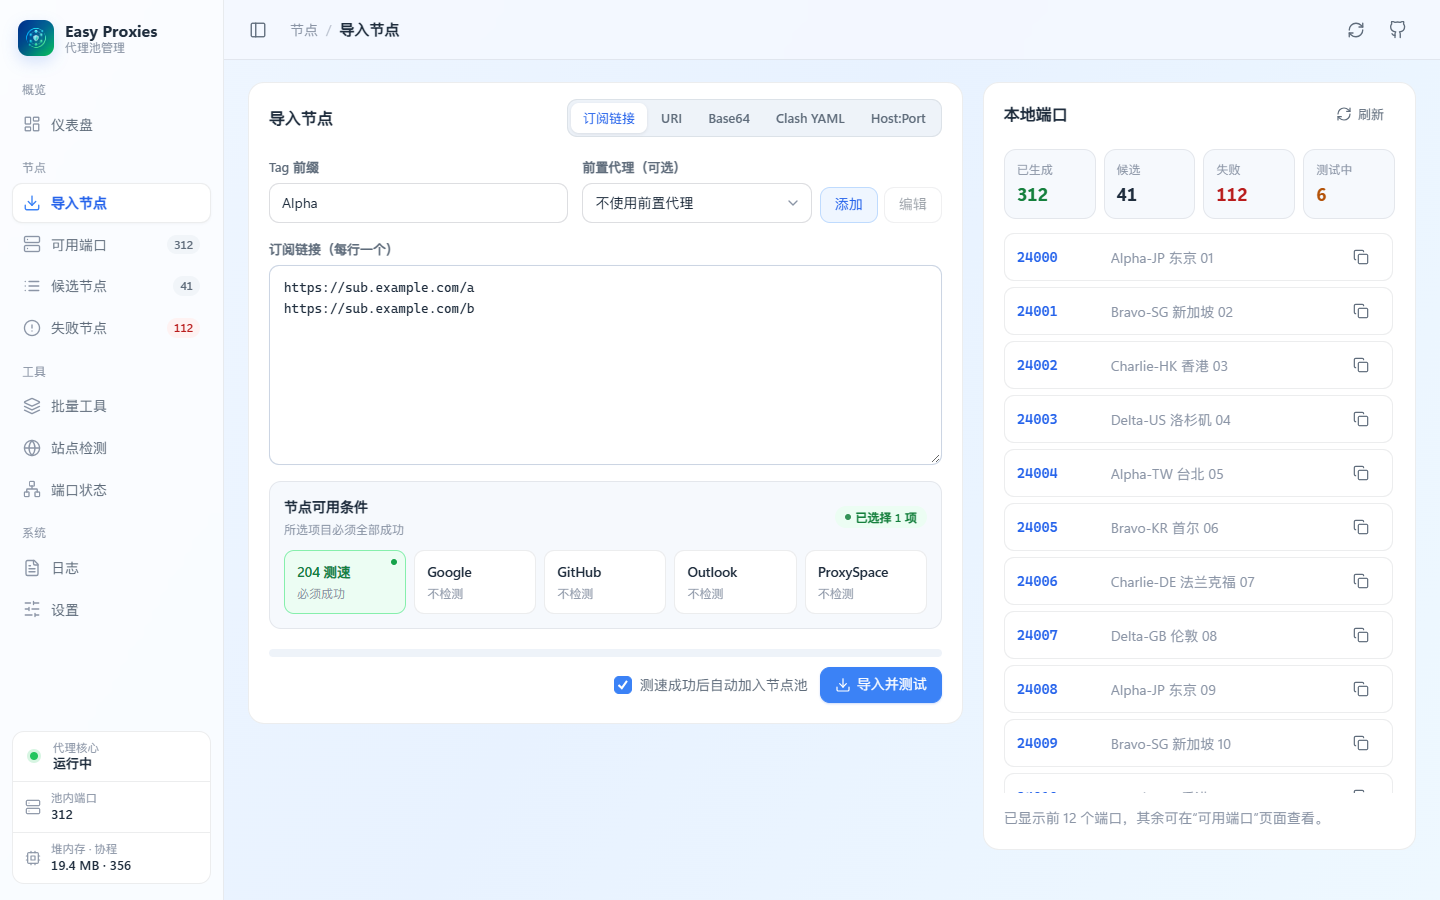
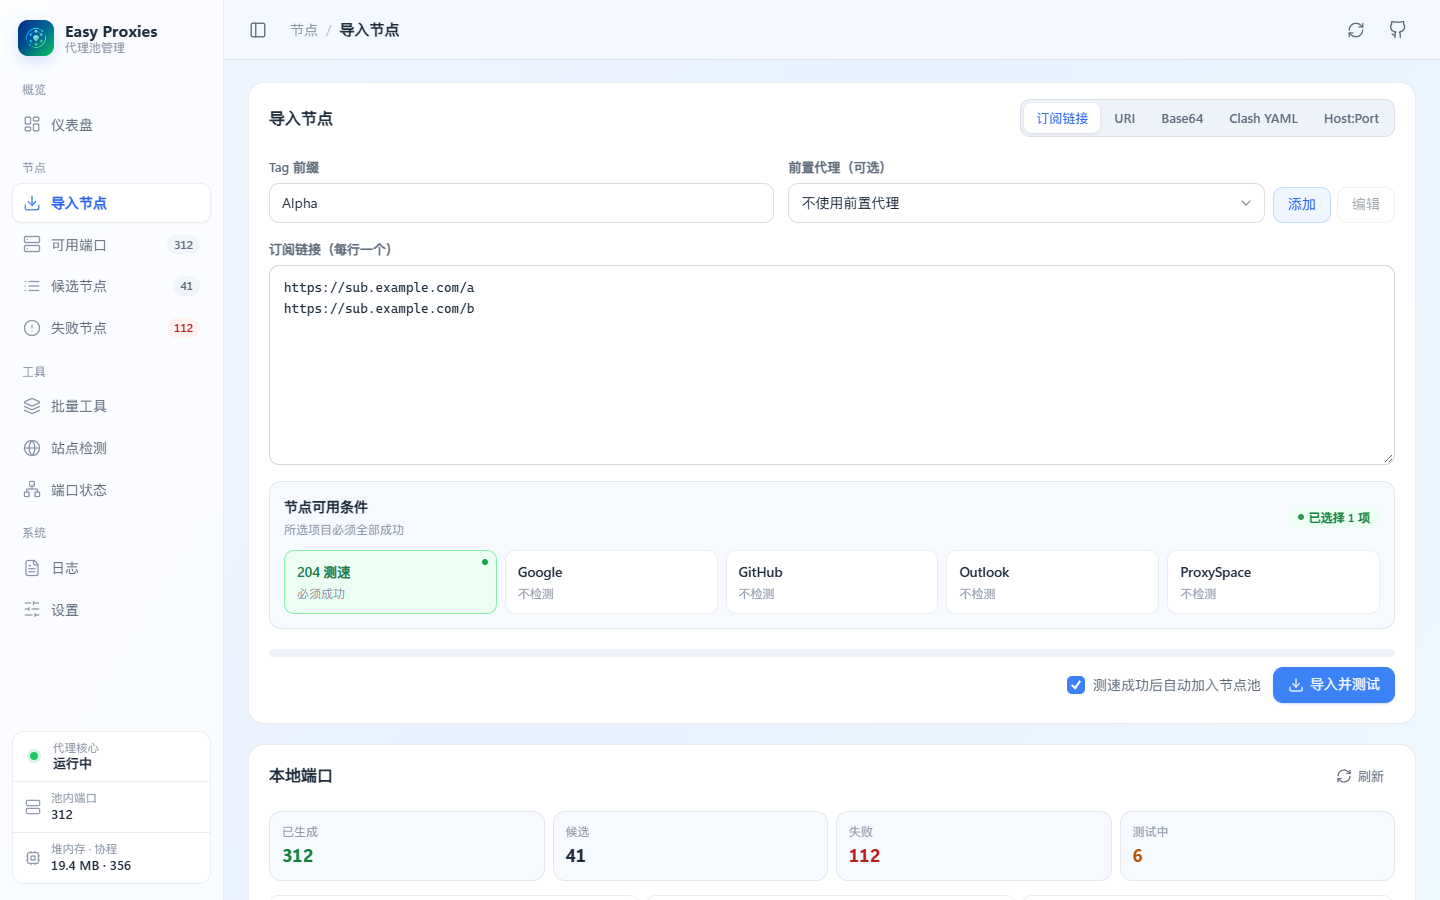
fix: skip unbuildable nodes when applying site check ports
Applying site check results now validates newly selected nodes first.
Nodes that cannot produce a runtime configuration are moved to the
failed list with the reason instead of making the reload fail and
rolling back the whole apply. The import page now stacks the form
above the local port list.

diff --git a/internal/monitor/assets/css/pages.css b/internal/monitor/assets/css/pages.css
@@ -99,7 +99,7 @@ button.kpi:hover{border-color:var(--blue-line);transform:translateY(-2px);box-sh
 .pool-toolbar,.list-tools,.action-line{display:flex;align-items:center;justify-content:space-between;gap:12px;flex-wrap:wrap}
 
 /* Import */
-.import-layout{display:grid;grid-template-columns:minmax(0,1.65fr) minmax(320px,1fr);gap:var(--gap);align-items:start}
+.import-layout{display:grid;gap:var(--gap);align-items:start}
 .import-form{display:grid;gap:16px}
 .import-meta{display:grid;grid-template-columns:minmax(0,1fr) minmax(0,1.2fr);gap:14px;align-items:end}
 .chain-import-row{display:grid;grid-template-columns:minmax(0,1fr) auto;gap:8px;align-items:end}
@@ -116,7 +116,7 @@ button.kpi:hover{border-color:var(--blue-line);transform:translateY(-2px);box-sh
 .mini-stat span{font-size:12px;color:var(--muted)}
 .mini-stat strong{font-size:18px;font-weight:650;font-variant-numeric:tabular-nums}
 .mini-stat.green strong{color:var(--green-deep)}.mini-stat.red strong{color:var(--red-deep)}.mini-stat.amber strong{color:var(--amber-deep)}
-.port-list{max-height:min(560px,calc(100vh - 330px));overflow:auto;display:grid;gap:6px;padding-right:2px}
+.port-list{max-height:420px;overflow:auto;display:grid;grid-template-columns:repeat(auto-fill,minmax(360px,1fr));gap:6px;padding-right:2px}
 .import-format-card{display:flex;align-items:center;justify-content:space-between;gap:14px;padding:14px;border:1px solid var(--line);border-radius:var(--radius);background:var(--surface-subtle)}
 
 /* Verification policy & site selectors */
@@ -250,7 +250,6 @@ pre.log-view{height:100%;max-height:none;background:#0f172a;color:#cbd5e1;border
 @media(max-width:1280px){
   .kpi-grid{grid-template-columns:repeat(3,minmax(0,1fr))}
   .dash-grid,.dash-grid.two{grid-template-columns:1fr 1fr}
-  .import-layout{grid-template-columns:1fr}
   .verification-targets{grid-template-columns:repeat(3,minmax(0,1fr))}
 }
 @media(max-width:980px){

diff --git a/internal/monitor/assets/js/pages/connectivity.js b/internal/monitor/assets/js/pages/connectivity.js
@@ -285,7 +285,7 @@ async function applyConnectivityPorts(allowEmpty){
   try{
     const request={...(S.connectivityPreviewRequest||connectivityPortRequest()),allow_empty:!!allowEmpty};
     const result=await api('/api/connectivity/ports/apply',{method:'POST',body:JSON.stringify(request)});
-    closeDialog();toast(`端口已更新，当前池内 ${result.pool_count||0} 个节点`);
+    closeDialog();toast(result.build_failed?`端口已更新，当前池内 ${result.pool_count||0} 个节点；${result.build_failed} 个节点无法生成运行配置，已移入失败节点`:`端口已更新，当前池内 ${result.pool_count||0} 个节点`,result.build_failed?'err':'ok');
     S.connectivityPreview=null;S.connectivityPreviewRequest=null;
     await loadImportSummary();renderNav();refreshConnectivityPreviewSummary();
   }catch(err){toast(err.message,'err');if(button){button.disabled=false;button.textContent=oldText}}

diff --git a/internal/importer/connectivity_test.go b/internal/importer/connectivity_test.go
@@ -708,3 +708,80 @@ func waitConnectivityJobTerminal(t *testing.T, svc *Service, jobID string) Conne
 }
 
 var errConnectivityFixture = errors.New("connectivity fixture failure")
+
+func TestConnectivityPortApplySkipsNodesThatCannotBuild(t *testing.T) {
+	mgr := &batchNodeManagerStub{nextPort: 25000, validationErrs: map[string]error{"bad": errors.New("unsupported transport")}}
+	svc, store := newBatchServiceForTest(t, mgr)
+	nodes := []ManagedNode{
+		{ID: "good", Name: "good", URI: "trojan://good", TagPrefix: "A", State: StatePassed},
+		{ID: "bad", Name: "bad", URI: "trojan://bad", TagPrefix: "A", State: StatePassed},
+	}
+	if err := store.UpsertNodes(nodes); err != nil {
+		t.Fatal(err)
+	}
+	state := &connectivityJobState{
+		job:    ConnectivityJob{ID: "job", Status: ConnectivityJobFinished, Tags: []string{"A"}, Targets: []string{"google"}},
+		routes: map[string]connectivityRoute{}, results: map[string]ConnectivityResult{},
+	}
+	for _, node := range nodes {
+		fingerprint := connectivityRouteFingerprint(node)
+		state.routes[fingerprint] = connectivityRoute{node: node, tags: []string{"A"}, fingerprint: fingerprint}
+		state.results[connectivityResultKey(node.ID, "google")] = ConnectivityResult{NodeID: node.ID, NodeName: node.Name, Tags: []string{"A"}, RouteFingerprint: fingerprint, TargetID: "google", FirstSuccess: true, Success: true, Attempts: 1}
+	}
+	svc.connectivityJobs["job"] = state
+	req := ConnectivityPortRequest{JobID: "job", Tags: []string{"A"}, Targets: []string{"google"}}
+	preview, err := svc.PreviewConnectivityPool(req)
+	if err != nil {
+		t.Fatal(err)
+	}
+	req.PreviewToken = preview.PreviewToken
+	applied, err := svc.ApplyConnectivityPool(context.Background(), req)
+	if err != nil {
+		t.Fatalf("ApplyConnectivityPool() error = %v", err)
+	}
+	for _, batch := range mgr.createdBatches {
+		for _, created := range batch {
+			if created.Name == "bad" {
+				t.Fatal("node that cannot build was sent to the runtime")
+			}
+		}
+	}
+	good, _ := store.GetNode("good")
+	bad, _ := store.GetNode("bad")
+	if !good.InPool || good.Port == 0 {
+		t.Fatalf("good = %#v", good)
+	}
+	if bad.InPool || bad.State != StateFailed || bad.Port != 0 || !strings.Contains(bad.LastError, "unsupported transport") {
+		t.Fatalf("bad = %#v", bad)
+	}
+	if applied.PoolCount != 1 || applied.BuildFailed != 1 {
+		t.Fatalf("applied = %#v", applied)
+	}
+}
+
+func TestConnectivityPortApplyRejectsWhenNoNodeCanBuild(t *testing.T) {
+	mgr := &batchNodeManagerStub{validationErrs: map[string]error{"bad": errors.New("unsupported transport")}}
+	svc, store := newBatchServiceForTest(t, mgr)
+	node := ManagedNode{ID: "bad", Name: "bad", URI: "trojan://bad", TagPrefix: "A", State: StatePassed}
+	if err := store.UpsertNode(node); err != nil {
+		t.Fatal(err)
+	}
+	fingerprint := connectivityRouteFingerprint(node)
+	svc.connectivityJobs["job"] = &connectivityJobState{
+		job:     ConnectivityJob{ID: "job", Status: ConnectivityJobFinished, Tags: []string{"A"}, Targets: []string{"google"}},
+		routes:  map[string]connectivityRoute{fingerprint: {node: node, tags: []string{"A"}, fingerprint: fingerprint}},
+		results: map[string]ConnectivityResult{connectivityResultKey(node.ID, "google"): {NodeID: node.ID, Tags: []string{"A"}, RouteFingerprint: fingerprint, TargetID: "google", FirstSuccess: true, Success: true, Attempts: 1}},
+	}
+	req := ConnectivityPortRequest{JobID: "job", Tags: []string{"A"}, Targets: []string{"google"}}
+	preview, err := svc.PreviewConnectivityPool(req)
+	if err != nil {
+		t.Fatal(err)
+	}
+	req.PreviewToken = preview.PreviewToken
+	if _, err := svc.ApplyConnectivityPool(context.Background(), req); err == nil || !strings.Contains(err.Error(), "运行配置") {
+		t.Fatalf("ApplyConnectivityPool() error = %v, want build failure rejection", err)
+	}
+	if len(mgr.createdBatches) != 0 {
+		t.Fatalf("created batches = %#v", mgr.createdBatches)
+	}
+}

diff --git a/internal/importer/connectivity.go b/internal/importer/connectivity.go
@@ -1406,6 +1406,25 @@ func (s *Service) ApplyConnectivityPool(ctx context.Context, req ConnectivityPor
 		}
 		return cause
 	}
+	desiredIDs := make(map[string]struct{}, len(selection.desiredIDs))
+	for id := range selection.desiredIDs {
+		desiredIDs[id] = struct{}{}
+	}
+	buildFailures := make(map[string]string)
+	if validator, ok := s.nodeMgr.(NodeRuntimeValidator); ok {
+		for _, node := range nodesBefore {
+			if _, desired := desiredIDs[node.ID]; !desired || node.InPool || node.State == StateInPool {
+				continue
+			}
+			if err := validator.ValidateNode(applyCtx, node.ToConfigNode()); err != nil {
+				buildFailures[node.ID] = "运行配置构建失败: " + err.Error()
+				delete(desiredIDs, node.ID)
+			}
+		}
+	}
+	if len(desiredIDs) == 0 && len(buildFailures) > 0 && !req.AllowEmpty {
+		return ConnectivityPortApplyResponse{}, fmt.Errorf("%d 个达标节点都无法生成运行配置，未修改端口", len(buildFailures))
+	}
 	configByRoute := make(map[string]config.NodeConfig, len(configBefore))
 	for _, node := range configBefore {
 		fingerprint := connectivityRouteFingerprint(ManagedNode{URI: node.URI, ChainProfileID: node.ChainProfileID})
@@ -1414,7 +1433,7 @@ func (s *Service) ApplyConnectivityPool(ctx context.Context, req ConnectivityPor
 	removeNames := make([]string, 0)
 	addNodes := make([]config.NodeConfig, 0)
 	for _, node := range nodesBefore {
-		_, desired := selection.desiredIDs[node.ID]
+		_, desired := desiredIDs[node.ID]
 		inPool := node.InPool || node.State == StateInPool
 		fingerprint := connectivityRouteFingerprint(node)
 		if inPool && !desired {
@@ -1459,7 +1478,7 @@ func (s *Service) ApplyConnectivityPool(ctx context.Context, req ConnectivityPor
 	updates := make([]ManagedNode, 0, len(nodesBefore))
 	order := 0
 	for _, node := range nodesBefore {
-		_, desired := selection.desiredIDs[node.ID]
+		_, desired := desiredIDs[node.ID]
 		if desired {
 			configuredNode, found := configuredByRoute[connectivityRouteFingerprint(node)]
 			if !found || configuredNode.Port == 0 {
@@ -1474,6 +1493,11 @@ func (s *Service) ApplyConnectivityPool(ctx context.Context, req ConnectivityPor
 			node.ConsecutiveFailures = 0
 			node.LastError = ""
 			order++
+		} else if failureReason, failed := buildFailures[node.ID]; failed {
+			node.State = StateFailed
+			node.InPool = false
+			node.Port = 0
+			node.LastError = failureReason
 		} else if failureReason, failed := selection.failedIDs[node.ID]; failed {
 			node.State = StateFailed
 			node.InPool = false
@@ -1488,5 +1512,5 @@ func (s *Service) ApplyConnectivityPool(ctx context.Context, req ConnectivityPor
 	if err := s.verifyAppliedRuntime(applyCtx); err != nil {
 		return ConnectivityPortApplyResponse{}, rollback(err)
 	}
-	return ConnectivityPortApplyResponse{ConnectivityPortPreview: selection.preview, PoolCount: len(selection.desiredIDs)}, nil
+	return ConnectivityPortApplyResponse{ConnectivityPortPreview: selection.preview, PoolCount: len(desiredIDs), BuildFailed: len(buildFailures)}, nil
 }

diff --git a/internal/importer/types.go b/internal/importer/types.go
@@ -383,7 +383,8 @@ type ConnectivityPortPreview struct {
 
 type ConnectivityPortApplyResponse struct {
 	ConnectivityPortPreview
-	PoolCount int `json:"pool_count"`
+	PoolCount   int `json:"pool_count"`
+	BuildFailed int `json:"build_failed"`
 }
 
 type ConnectivityHistoryCounts struct {

diff --git a/release-notes/v2.5.0.md b/release-notes/v2.5.0.md
@@ -4,6 +4,7 @@
 - Added a dashboard as the default page, showing pool, candidate, failed, and testing counts, node composition, subscription refresh status, runtime diagnostics, import sources, and live job progress.
 - Node tables now use a single toolbar with segmented sorting, a port reorder menu, and an auto-probe menu. Bulk actions appear only when nodes are selected, and the selected count updates immediately.
 - Import formats are switched inline without a dialog, and the pasted content is kept when switching formats.
+- The import page now stacks the import form above the local port list, which uses the full page width.
 - Split the embedded WebUI into separate HTML, CSS, and JavaScript files served from `/assets/` with revalidation, so upgrades take effect without a stale browser cache.
 - Only one process can use a given config file. A new process waits up to 40 seconds for the previous instance to exit, preventing duplicate instances from shifting ports or writing shared data.
 - The program now exits with a clear error when the management port is already in use instead of running without a WebUI.
@@ -11,6 +12,7 @@
 - Multi-port mode no longer resolves GeoIP for every node or starts an unused GeoIP router, reducing startup and full reload time from several seconds to under one second on large pools.
 - The embedded Clash API is disabled by default. Set `EASY_PROXIES_CLASH_API_LISTEN` (for example `127.0.0.1:9092`) to enable it.
 - Completed import jobs are pruned while running instead of only at startup, and running probes no longer poll for cancellation, lowering idle and probing CPU usage.
+- Applying site check results no longer fails as a whole when a single qualifying node cannot produce a runtime configuration. Such nodes are moved to the failed list with the reason, and the remaining ports are applied.
 - Added management server header and idle timeouts.
 - Simplified the README and user guide, replaced the screenshots, and removed the Traditional Chinese documents.
 
